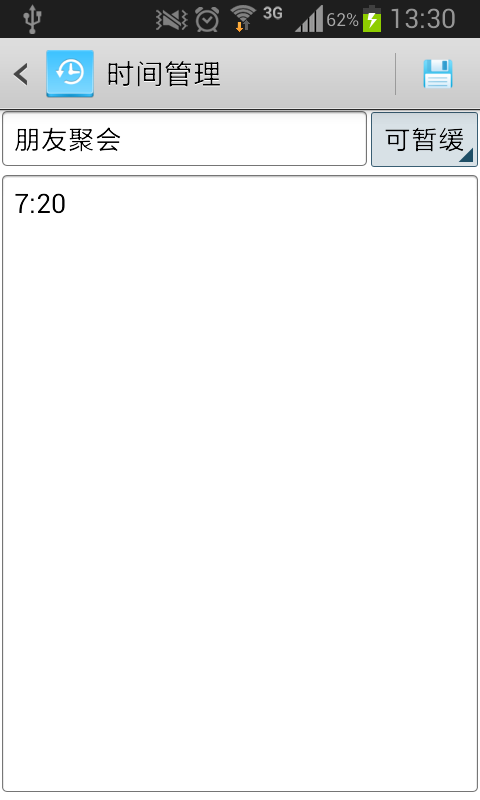
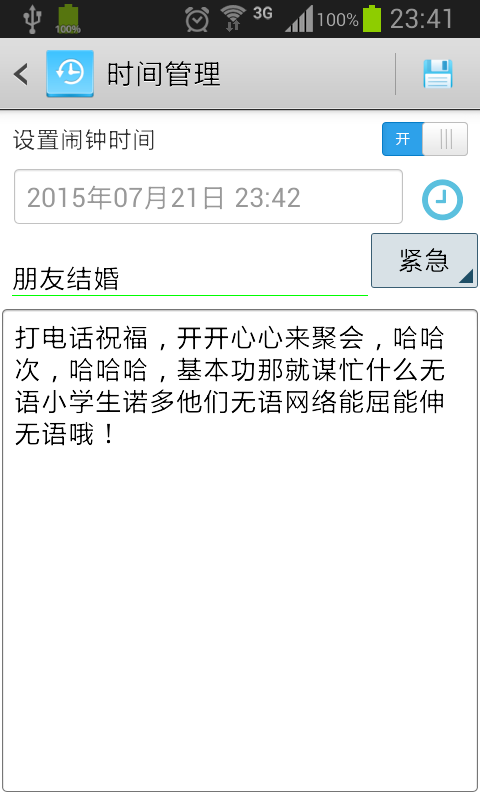
add notification

diff --git a/README.md b/README.md
@@ -66,6 +66,11 @@
     
 ![](images/minder_detail.png)
 
+- 事件闹钟提醒
+    + 点击可查看详情事件
+    
+![](images/minder_alert.png)
+ 
 - 设置页
     + 主要是个人信息管理
     + 进入密码管理
